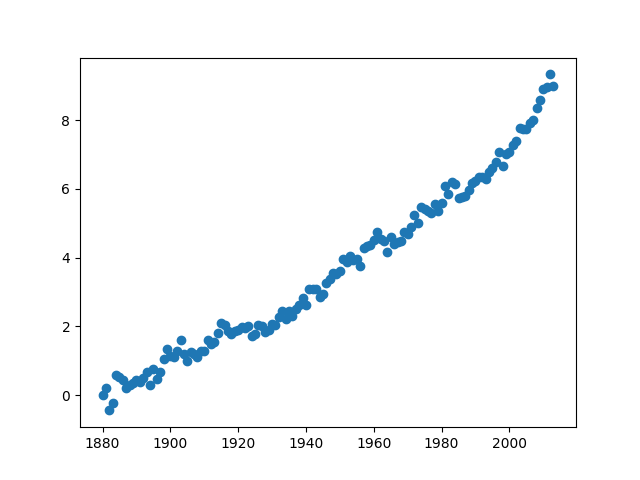
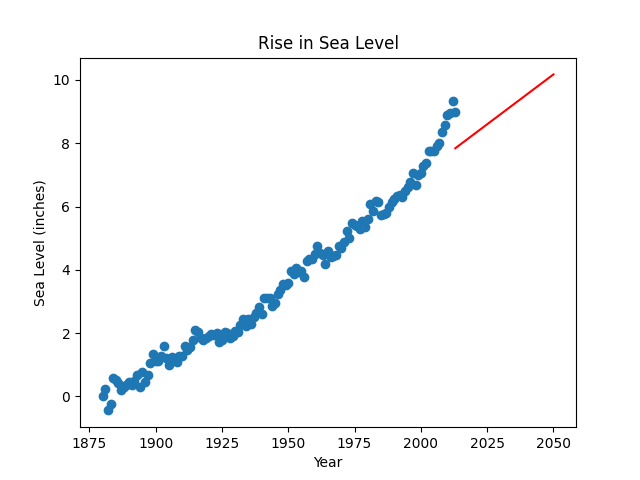
feat: first line

diff --git a/sea_level_predictor.py b/sea_level_predictor.py
@@ -14,12 +14,16 @@ def draw_plot():
         )
 
     # Create first line of best fit
-    first_line = liregress(
-        x=df
+    linear_regress = linregress(
+        x=df['Year'],
+        y=df['CSIRO Adjusted Sea Level']
     )
+    predicted_years = list(range(2013, 2051))
+    predicted_values = [linear_regress.slope * year + linear_regress.intercept for year in predicted_years]
+    plt.plot(predicted_years, predicted_values, color='red', label='Predicted Line')
 
     # Create second line of best fit
-    second_line = liregress()
+    # second_line = liregress()
 
     # Add labels and title
     plt.xlabel('Year')
